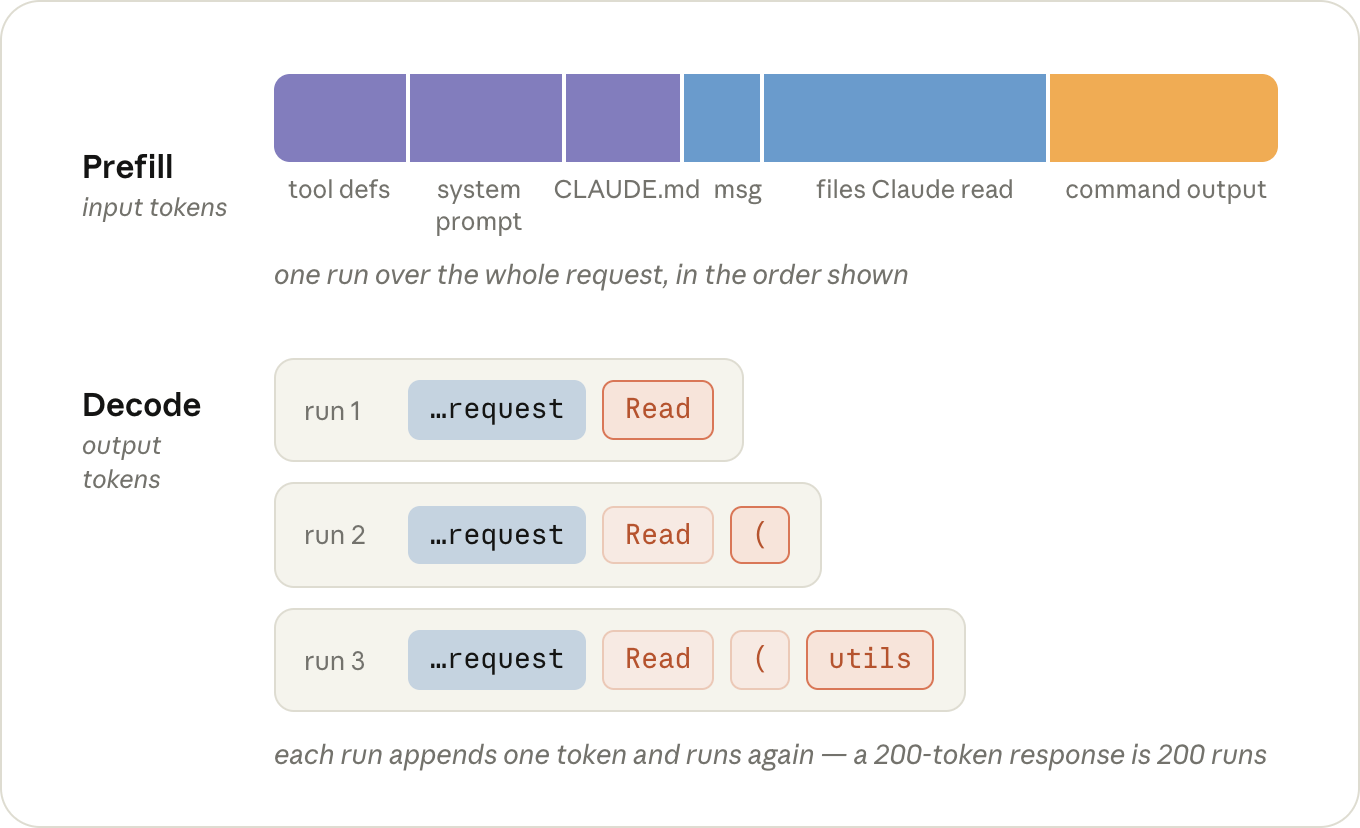
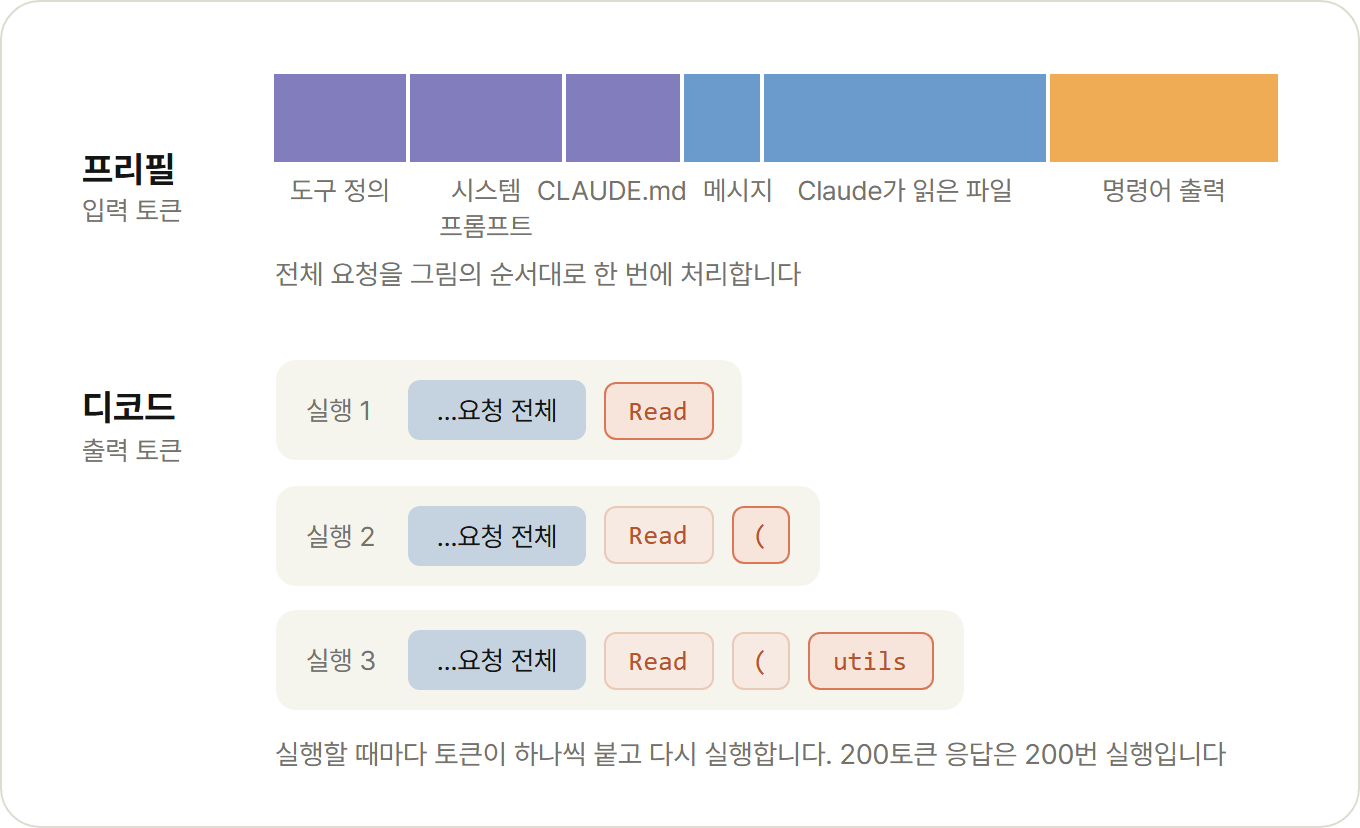
feat(blog): Claude Code 세션 번역 포스트 다이어그램 7장 한국어화 (#171)
본문은 한국어인데 다이어그램 안 라벨만 영어로 남아 있어 독자가 그림에서만
해석을 해야 했다. 원본 PNG를 픽셀 스캔해 팔레트, 막대 좌표, 곡선, 모서리
반경을 실측한 뒤 같은 좌표로 HTML/CSS를 작성해 Playwright로 2배 캡처했다.

- 막대와 박스 좌표는 원본과 픽셀 단위로 일치 (스캔으로 대조 확인)
- 곡선 2쌍은 원본에서 추적해 SVG polyline으로 재현
- 라벨 문구는 본문 번역과 캡션에서 그대로 가져와 용어 일치
- 코드 리터럴(utils.test.ts, Read, /clear, ×0.1)과 effort 키워드(med/max)는 영문 유지
- #169과 동일한 팔레트 양자화 적용. 7장 합계 221KB(영문판) -> 176KB
- 다이어그램이 재작성본임을 번역 고지에 명시

diff --git a/contents/blog/translation/maximizing-claude-code-sessions/index.md b/contents/blog/translation/maximizing-claude-code-sessions/index.md
@@ -9,7 +9,7 @@ tags: ["translation", "claude-code", "prompt-caching", "ai", "productivity"]
 series: "Claude 공식 블로그 번역"
 ---
 
-> 이 문서는 [Maximizing the value of your Claude Code sessions](https://claude.com/blog/maximizing-the-value-of-your-claude-code-sessions)의 한글 번역입니다.
+> 이 문서는 [Maximizing the value of your Claude Code sessions](https://claude.com/blog/maximizing-the-value-of-your-claude-code-sessions)의 한글 번역입니다. 본문의 다이어그램은 원문의 그림을 한국어로 다시 그린 것이라 Anthropic이 발행한 원본 이미지와는 다릅니다.
 
 ## 목차
 
